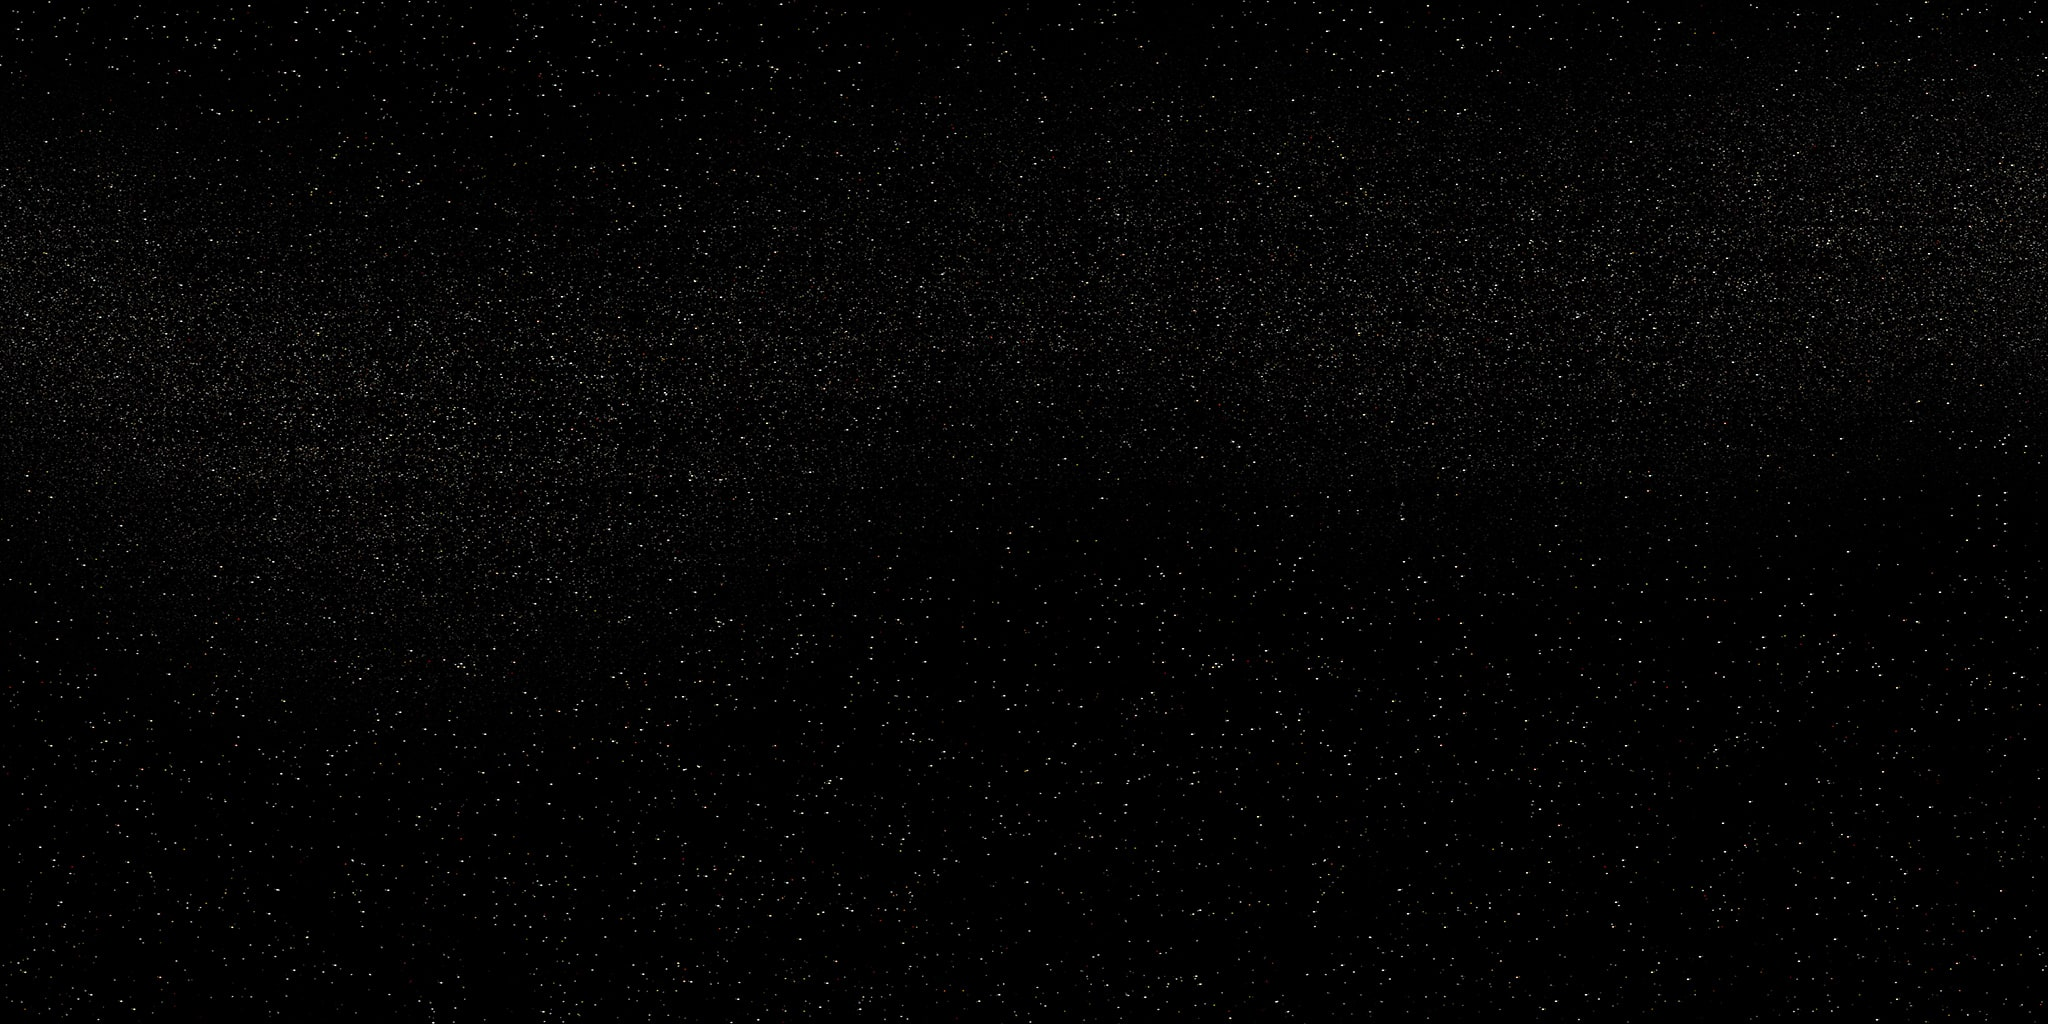
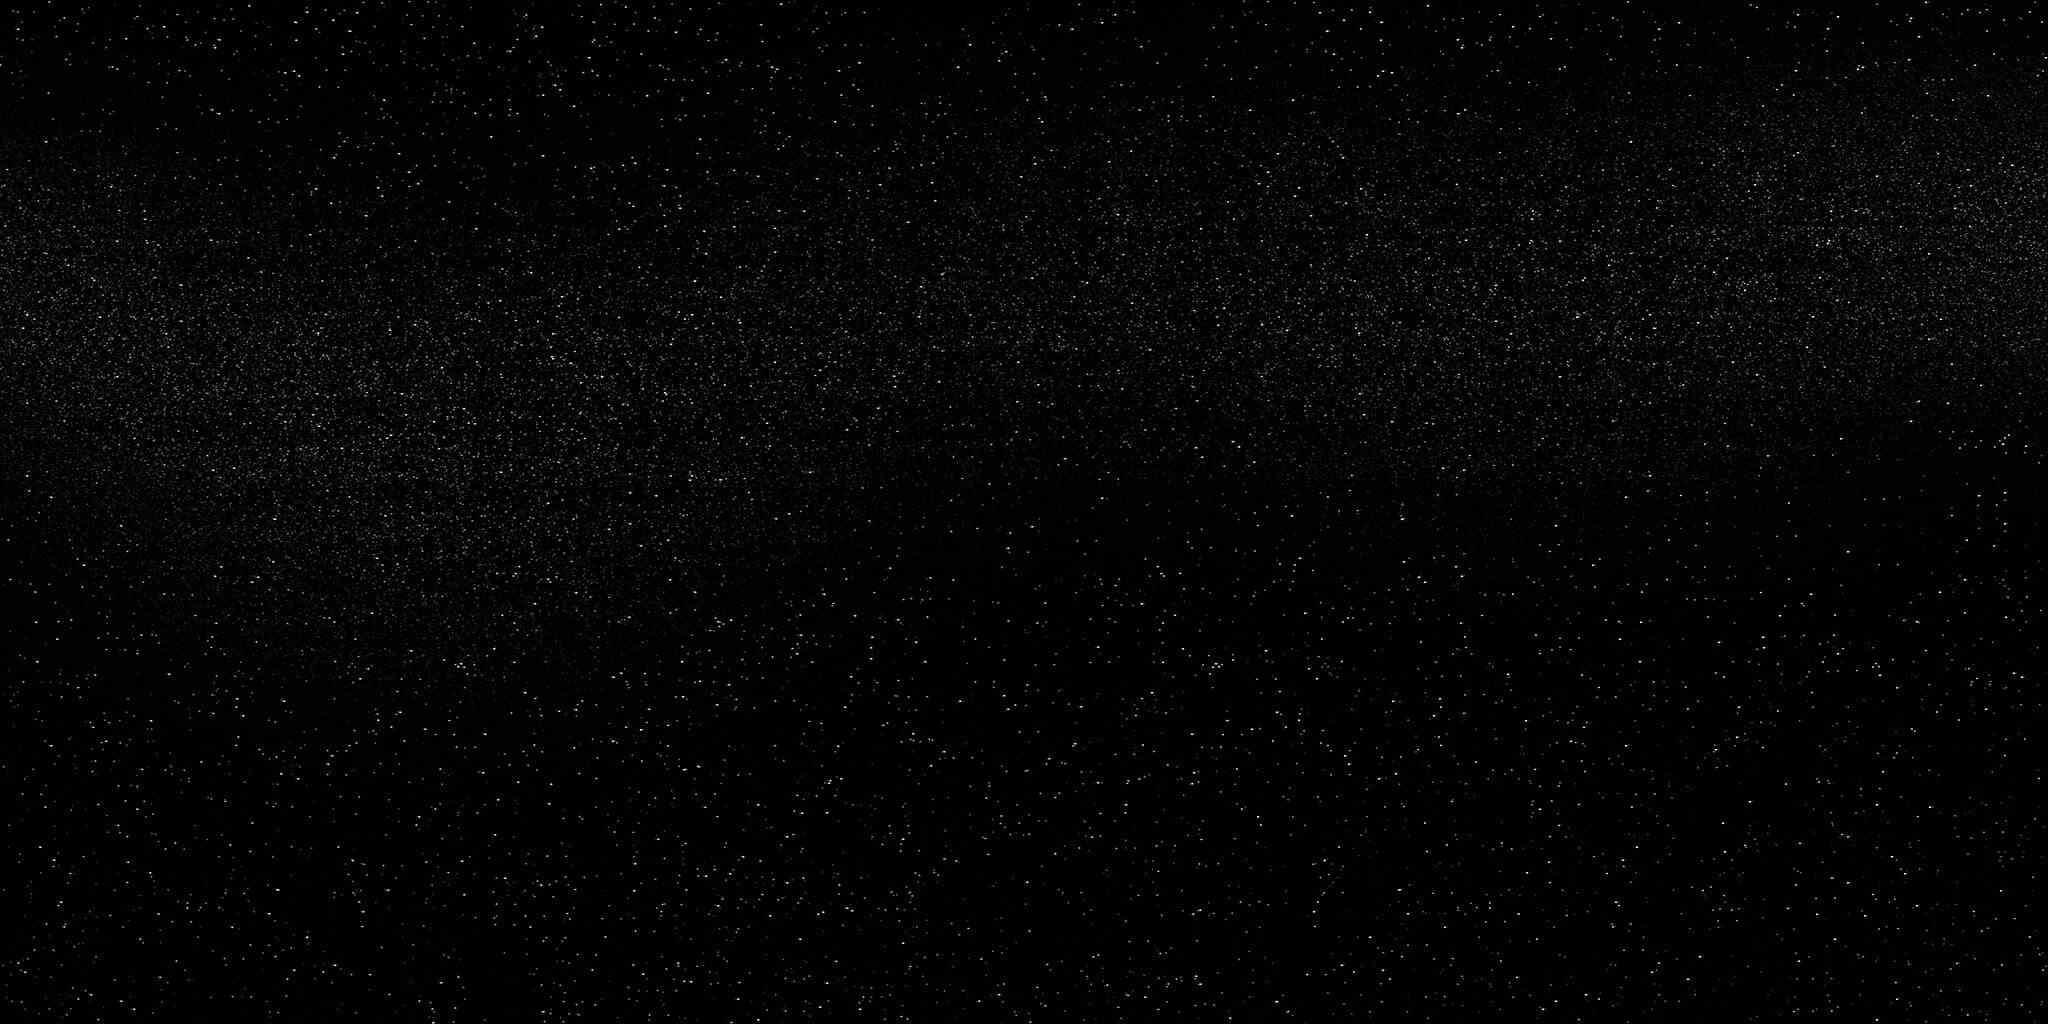
0.1.2 accelerate index.html

diff --git a/v1.html b/v1.html
@@ -151,12 +151,12 @@
                 environment: 'static/starfield-min.jpg',
                 // shading: 'lambert',
                 light: {
-                    main: {
-                        intensity: 0.1,
-                        shadow: true
-                    },
+                    // main: {
+                    //     intensity: 0.1,
+                    //     shadow: true
+                    // },
                     ambient: {
-                        intensity: 0.1
+                        intensity: 1
                     }
                 },
                 viewControl: {

diff --git a/index.html b/index.html
@@ -48,7 +48,6 @@
     <script src="https://cdn.jsdelivr.net/npm/jquery@3.4.1/dist/jquery.min.js"></script>
     <script src="https://cdn.jsdelivr.net/npm/echarts@4.6.0/dist/echarts.min.js"></script>
     <script src="https://cdn.jsdelivr.net/npm/echarts-gl@1.1.1/dist/echarts-gl.min.js"></script>
-    <script src="js/world.js"></script>
 </head>
 <body>
 <nav>
